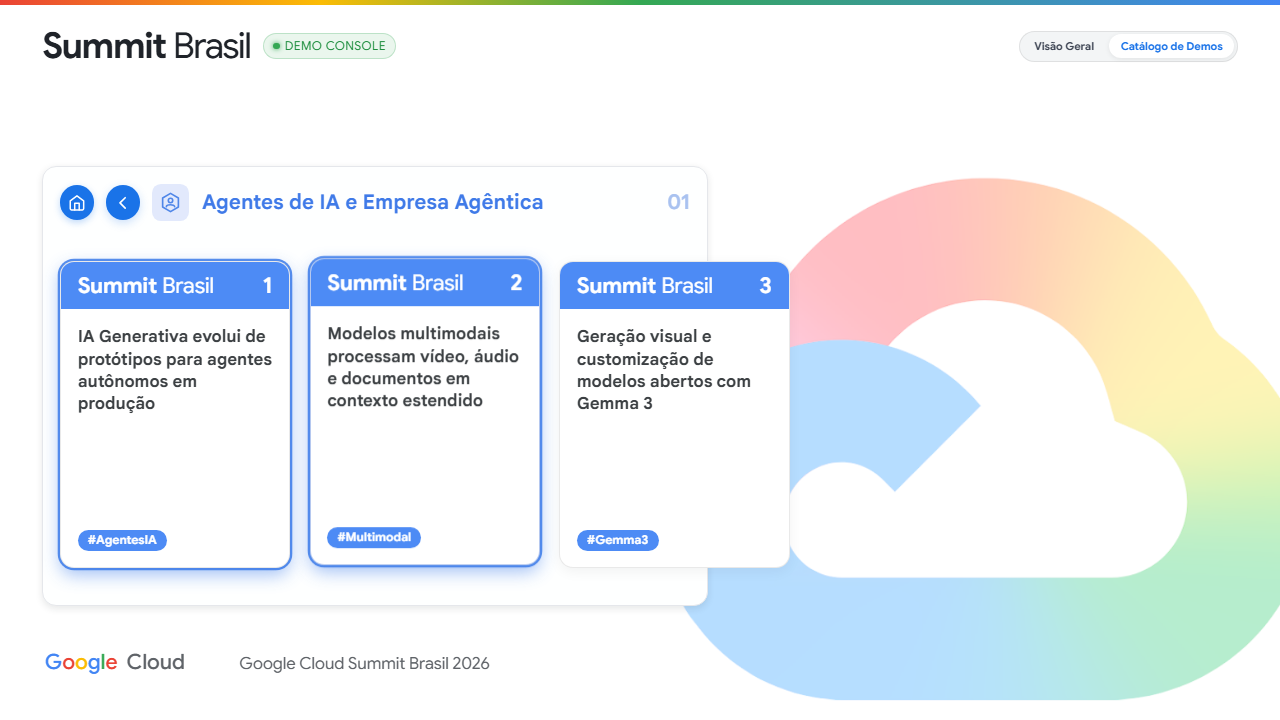
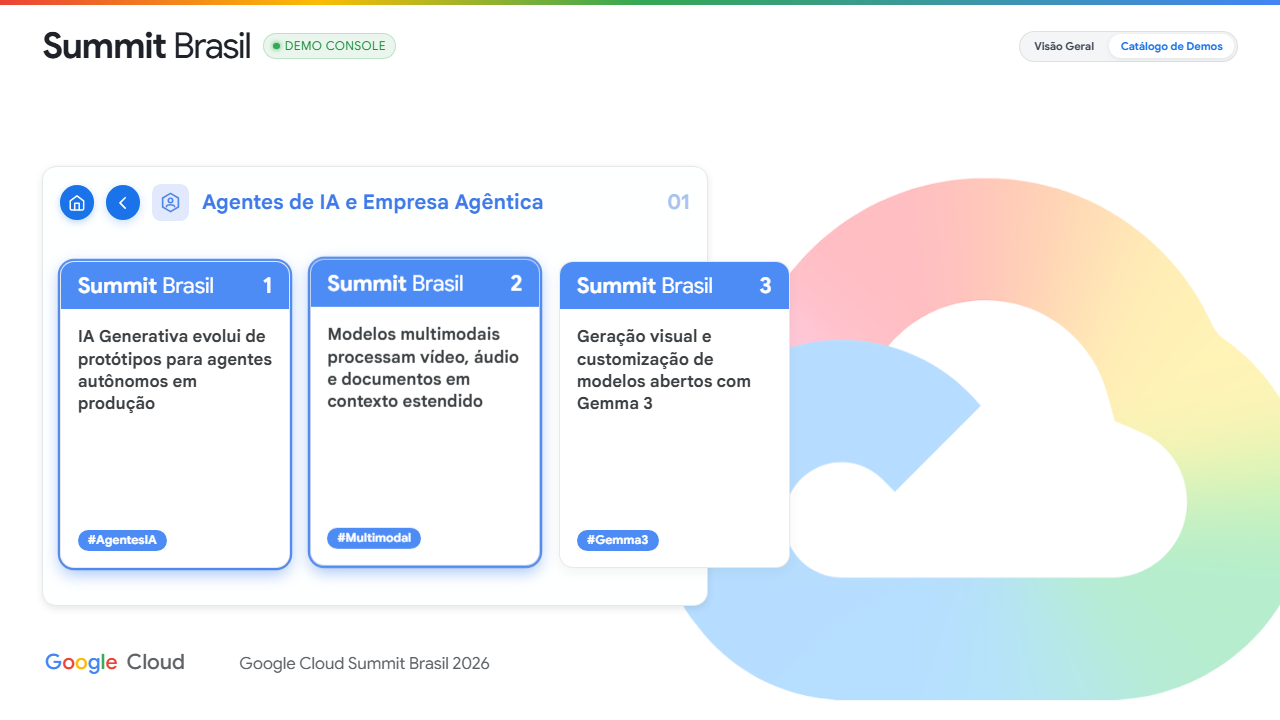
feat: add Image Studio demo pack

diff --git a/starter/demo-packs/image-studio/index.js b/starter/demo-packs/image-studio/index.js
@@ -1,0 +1,68 @@
+import { IMAGE_STUDIO_SAMPLE } from './sample-data.js';
+
+const controllers = new WeakMap();
+
+export const imageStudioPack = {
+  id: 'image-studio',
+  label: 'Image Studio',
+  description: 'Crop, retouch, compare, and approve a campaign visual.',
+  render(data = {}) {
+    const sample = { ...IMAGE_STUDIO_SAMPLE, ...data.imageStudio };
+    return `<section class="gc-image-studio" data-edit-state="source" aria-label="Image Studio">
+      <header class="gc-pack-header">
+        <div><strong>Image Studio</strong><span>SIMULATED DATA</span></div>
+        <span class="gc-pack-state" data-role="status">Ready to edit</span>
+      </header>
+      <div class="gc-image-preview" data-role="preview">
+        <img src="${sample.asset}" alt="Super Cloud campaign artwork">
+        <span class="gc-image-label" data-role="preview-label">Source</span>
+      </div>
+      <div class="gc-pack-toolbar" aria-label="Image editing controls">
+        <button type="button" data-action="crop" aria-pressed="false">Crop</button>
+        <button type="button" data-action="retouch" aria-pressed="false">Retouch</button>
+        <button type="button" data-action="compare" aria-pressed="false">Compare</button>
+        <button type="button" class="gc-pack-primary" data-action="approve">Approve</button>
+      </div>
+      <p class="gc-image-prompt"><strong>Edit prompt</strong>${sample.prompt}</p>
+      <ol class="gc-pack-history" data-role="history" aria-label="Edit history">
+        <li>Source opened</li>
+      </ol>
+    </section>`;
+  },
+  mount(host) {
+    const controller = new AbortController();
+    controllers.set(host, controller);
+    const studio = host.querySelector('.gc-image-studio');
+    const status = host.querySelector('[data-role="status"]');
+    const label = host.querySelector('[data-role="preview-label"]');
+    const history = host.querySelector('[data-role="history"]');
+
+    host.addEventListener('click', event => {
+      const button = event.target.closest('[data-action]');
+      if (!button) return;
+      const action = button.dataset.action;
+      if (action === 'approve') {
+        studio.dataset.editState = 'approved';
+        status.textContent = 'Approved';
+        history.insertAdjacentHTML('beforeend', '<li>Marketing review approved the asset</li>');
+        return;
+      }
+      const active = button.getAttribute('aria-pressed') !== 'true';
+      button.setAttribute('aria-pressed', String(active));
+      if (action === 'compare') {
+        studio.classList.toggle('is-comparing', active);
+        label.textContent = active ? 'Source comparison' : 'Edited';
+      } else {
+        studio.classList.toggle(`has-${action}`, active);
+        studio.dataset.editState = active ? action : 'edited';
+        status.textContent = active ? `${action[0].toUpperCase()}${action.slice(1)} applied` : 'Edited';
+        label.textContent = 'Edited';
+        history.insertAdjacentHTML('beforeend', `<li>${action[0].toUpperCase()}${action.slice(1)} ${active ? 'applied' : 'removed'}</li>`);
+      }
+    }, { signal: controller.signal });
+  },
+  unmount(host) {
+    controllers.get(host)?.abort();
+    controllers.delete(host);
+  },
+};

diff --git a/starter/demo-packs/image-studio/styles.css b/starter/demo-packs/image-studio/styles.css
@@ -1,0 +1,45 @@
+.gc-image-studio {
+  display: grid;
+  grid-template-rows: auto minmax(0, 1fr) auto auto auto;
+  gap: 2.5cqw;
+  height: 100%;
+  padding: 3cqw;
+  background: var(--gc-surface);
+}
+
+.gc-pack-header,
+.gc-pack-toolbar {
+  display: flex;
+  align-items: center;
+  justify-content: space-between;
+  gap: 1.5cqw;
+}
+
+.gc-pack-header > div { display: grid; gap: 0.4cqw; }
+.gc-pack-header strong { font: 700 4.8cqw/1 var(--gc-font-display); color: var(--gc-ink-900); }
+.gc-pack-header span { font: 500 2.5cqw/1.2 var(--gc-font-display); color: var(--gc-ink-500); }
+.gc-pack-state { padding: 1cqw 2cqw; border-radius: var(--gc-radius-pill); background: var(--gc-blue-tint-060); }
+
+.gc-image-preview {
+  position: relative;
+  display: grid;
+  place-items: center;
+  min-height: 35cqw;
+  overflow: hidden;
+  border-radius: 3cqw;
+  background: var(--gc-color-canvas);
+}
+.gc-image-preview img { width: 72%; transition: filter var(--gc-dur-enter), transform var(--gc-dur-enter); }
+.gc-image-studio.has-crop .gc-image-preview img { transform: scale(1.28) translateX(4cqw); }
+.gc-image-studio.has-retouch .gc-image-preview img { filter: saturate(1.22) contrast(1.08); }
+.gc-image-studio.is-comparing .gc-image-preview img { filter: none; transform: none; }
+.gc-image-studio[data-edit-state="approved"] .gc-image-preview { outline: 0.7cqw solid var(--gc-success); }
+.gc-image-label { position: absolute; left: 2cqw; bottom: 2cqw; padding: 1cqw 2cqw; border-radius: var(--gc-radius-pill); background: var(--gc-surface); font: 500 2.7cqw var(--gc-font-display); }
+
+.gc-pack-toolbar { justify-content: flex-start; flex-wrap: wrap; }
+.gc-pack-toolbar button { padding: 1.7cqw 2.3cqw; border-radius: var(--gc-radius-pill); background: var(--gc-surface-sunken); color: var(--gc-blue-action); font: 500 2.7cqw var(--gc-font-display); }
+.gc-pack-toolbar button[aria-pressed="true"] { background: var(--gc-color-selection); outline: 0.3cqw solid var(--gc-blue-action); }
+.gc-pack-toolbar .gc-pack-primary { margin-left: auto; background: var(--gc-color-action); color: var(--gc-surface); }
+.gc-image-prompt { margin: 0; padding: 2cqw; border-radius: 2cqw; background: var(--gc-blue-tint-050); font: 2.6cqw/1.4 var(--gc-font-text); }
+.gc-image-prompt strong { display: block; font-family: var(--gc-font-display); }
+.gc-pack-history { margin: 0; padding-left: 4cqw; max-height: 10cqw; overflow: auto; font: 2.3cqw/1.45 var(--gc-font-text); color: var(--gc-ink-500); }

diff --git a/content.js b/content.js
@@ -67,7 +67,7 @@ window.CONTENT = {
           body: 'Combinando o Nano Banana 2 para geração e edição visual de alta fidelidade com variantes do Gemma 3 otimizadas para português, o Vertex AI permite personalizar weights de fundação com fine-tuning eficiente e LoRA. Veja como empresas no Brasil criam experiências visuais e conversacionais sob medida preservando a privacidade dos dados corporativos.',
           tag: '#Gemma3',
           live: false,
-          demo: 'camera',
+          demo: 'image-studio',
         },
       ],
     },

diff --git a/index.html b/index.html
@@ -32,6 +32,7 @@
 <link rel="stylesheet" href="css/screens.css">
 <link rel="stylesheet" href="css/responsive.css">
 <link rel="stylesheet" href="starter/demo-packs/shared.css">
+<link rel="stylesheet" href="starter/demo-packs/image-studio/styles.css">
 <script src="js/gc-icons.js"></script>
 <script src="js/cloud-style.js"></script>
 <script src="content.js"></script>

diff --git a/starter/demo-packs/registry.js b/starter/demo-packs/registry.js
@@ -1,3 +1,5 @@
+import { imageStudioPack } from './image-studio/index.js';
+
 const packs = new Map();
 const activePacks = new WeakMap();
 
@@ -47,3 +49,5 @@ export function mountDemoPack(host, id, data = {}) {
   pack.mount?.(host, data);
   return pack;
 }
+
+registerDemoPack(imageStudioPack);

diff --git a/starter/demo-packs/image-studio/sample-data.js b/starter/demo-packs/image-studio/sample-data.js
@@ -1,0 +1,5 @@
+export const IMAGE_STUDIO_SAMPLE = {
+  asset: 'assets/supercloud.png',
+  prompt: 'Refine the campaign crop and balance the Cloud colors.',
+  reviewer: 'Marketing review',
+};

diff --git a/tools/verify.py b/tools/verify.py
@@ -43,6 +43,8 @@ def main() -> int:
     ap.add_argument("--out", default="docs/screenshots")
     ap.add_argument("--update-screenshots", action="store_true",
                     help="write every canonical manifest capture to docs/screenshots")
+    ap.add_argument("--demo", choices=["image-studio"],
+                    help="verify the interaction scenario for one demo pack")
     args = ap.parse_args()
 
     out = pathlib.Path(args.out)
@@ -172,6 +174,24 @@ def main() -> int:
             problems.append("[reduced-motion] live-card pulse is still active")
         reduced.close()
 
+        if args.demo == "image-studio":
+            demo = browser.new_page(viewport=DESKTOP)
+            watch(demo, "image-studio")
+            demo.goto(args.url, wait_until="networkidle", timeout=60_000)
+            demo.locator(".gc-primary-action").click()
+            demo.locator(".gc-menu-item").first.click()
+            image_card = demo.locator(".gc-card").nth(2)
+            image_card.focus()
+            demo.keyboard.press("Enter")
+            for action in ("crop", "retouch", "compare"):
+                demo.locator(f'[data-action="{action}"]').click()
+                if demo.locator(f'[data-action="{action}"]').get_attribute("aria-pressed") != "true":
+                    problems.append(f"[image-studio] {action} did not enter its active state")
+            demo.locator('[data-action="approve"]').click()
+            if "approved" not in demo.locator('[data-role="history"]').inner_text().lower():
+                problems.append("[image-studio] approval did not create an audit entry")
+            demo.close()
+
         if args.update_screenshots:
             parsed = urlsplit(args.url)
             origin = f"{parsed.scheme}://{parsed.netloc}"
@@ -196,6 +216,19 @@ def main() -> int:
                     capture.keyboard.press("Enter")
                 if setup == "focus-primary":
                     capture.locator("#primary").focus()
+                if setup and setup.startswith("image-studio"):
+                    capture.locator(".gc-primary-action").click()
+                    capture.locator(".gc-menu-item").first.click()
+                    image_card = capture.locator(".gc-card").nth(2)
+                    image_card.focus()
+                    capture.keyboard.press("Enter")
+                    if setup == "image-studio-compare":
+                        capture.locator('[data-action="retouch"]').click()
+                        capture.locator('[data-action="compare"]').click()
+                    if setup == "image-studio-approved":
+                        capture.locator('[data-action="crop"]').click()
+                        capture.locator('[data-action="retouch"]').click()
+                        capture.locator('[data-action="approve"]').click()
                 capture.wait_for_timeout(300)
                 target = capture.locator(case["selector"])
                 if target.count() != 1:

diff --git a/tools/screenshot_manifest.py b/tools/screenshot_manifest.py
@@ -11,4 +11,8 @@ SCREENSHOT_CASES = [
     {"name": "component-buttons-focus", "path": "/templates/06-screen-catalog.html", "viewport": (1280, 720), "selector": "#buttons", "setup": "focus-primary"},
     {"name": "component-status", "path": "/templates/06-screen-catalog.html", "viewport": (1280, 720), "selector": "#status"},
     {"name": "component-console-surface", "path": "/templates/06-screen-catalog.html", "viewport": (1280, 720), "selector": "#surface"},
+    {"name": "demo-image-studio-desktop", "path": "/index.html", "viewport": (1280, 720), "selector": ".gc-phone", "setup": "image-studio"},
+    {"name": "demo-image-studio-mobile", "path": "/index.html", "viewport": (390, 844), "selector": ".gc-phone", "setup": "image-studio", "mobile": True},
+    {"name": "component-image-studio-compare", "path": "/index.html", "viewport": (1280, 720), "selector": ".gc-phone", "setup": "image-studio-compare"},
+    {"name": "component-image-studio-approved", "path": "/index.html", "viewport": (1280, 720), "selector": ".gc-phone", "setup": "image-studio-approved"},
 ]

diff --git a/tests/test_demo_packs.py b/tests/test_demo_packs.py
@@ -16,6 +16,17 @@ class DemoPackContractTest(unittest.TestCase):
         for pack_id in ("image-studio", "video-studio", "analytics", "databases", "business-flows"):
             self.assertEqual(source.count(f"'{pack_id}'"), 1)
 
+    def test_image_studio_has_meaningful_controls(self):
+        source = (ROOT / "starter/demo-packs/image-studio/index.js").read_text(encoding="utf-8")
+        for control in (
+            'data-action="crop"',
+            'data-action="retouch"',
+            'data-action="compare"',
+            'data-action="approve"',
+        ):
+            self.assertIn(control, source)
+        self.assertIn("aria-pressed", source)
+
 
 if __name__ == "__main__":
     unittest.main()
